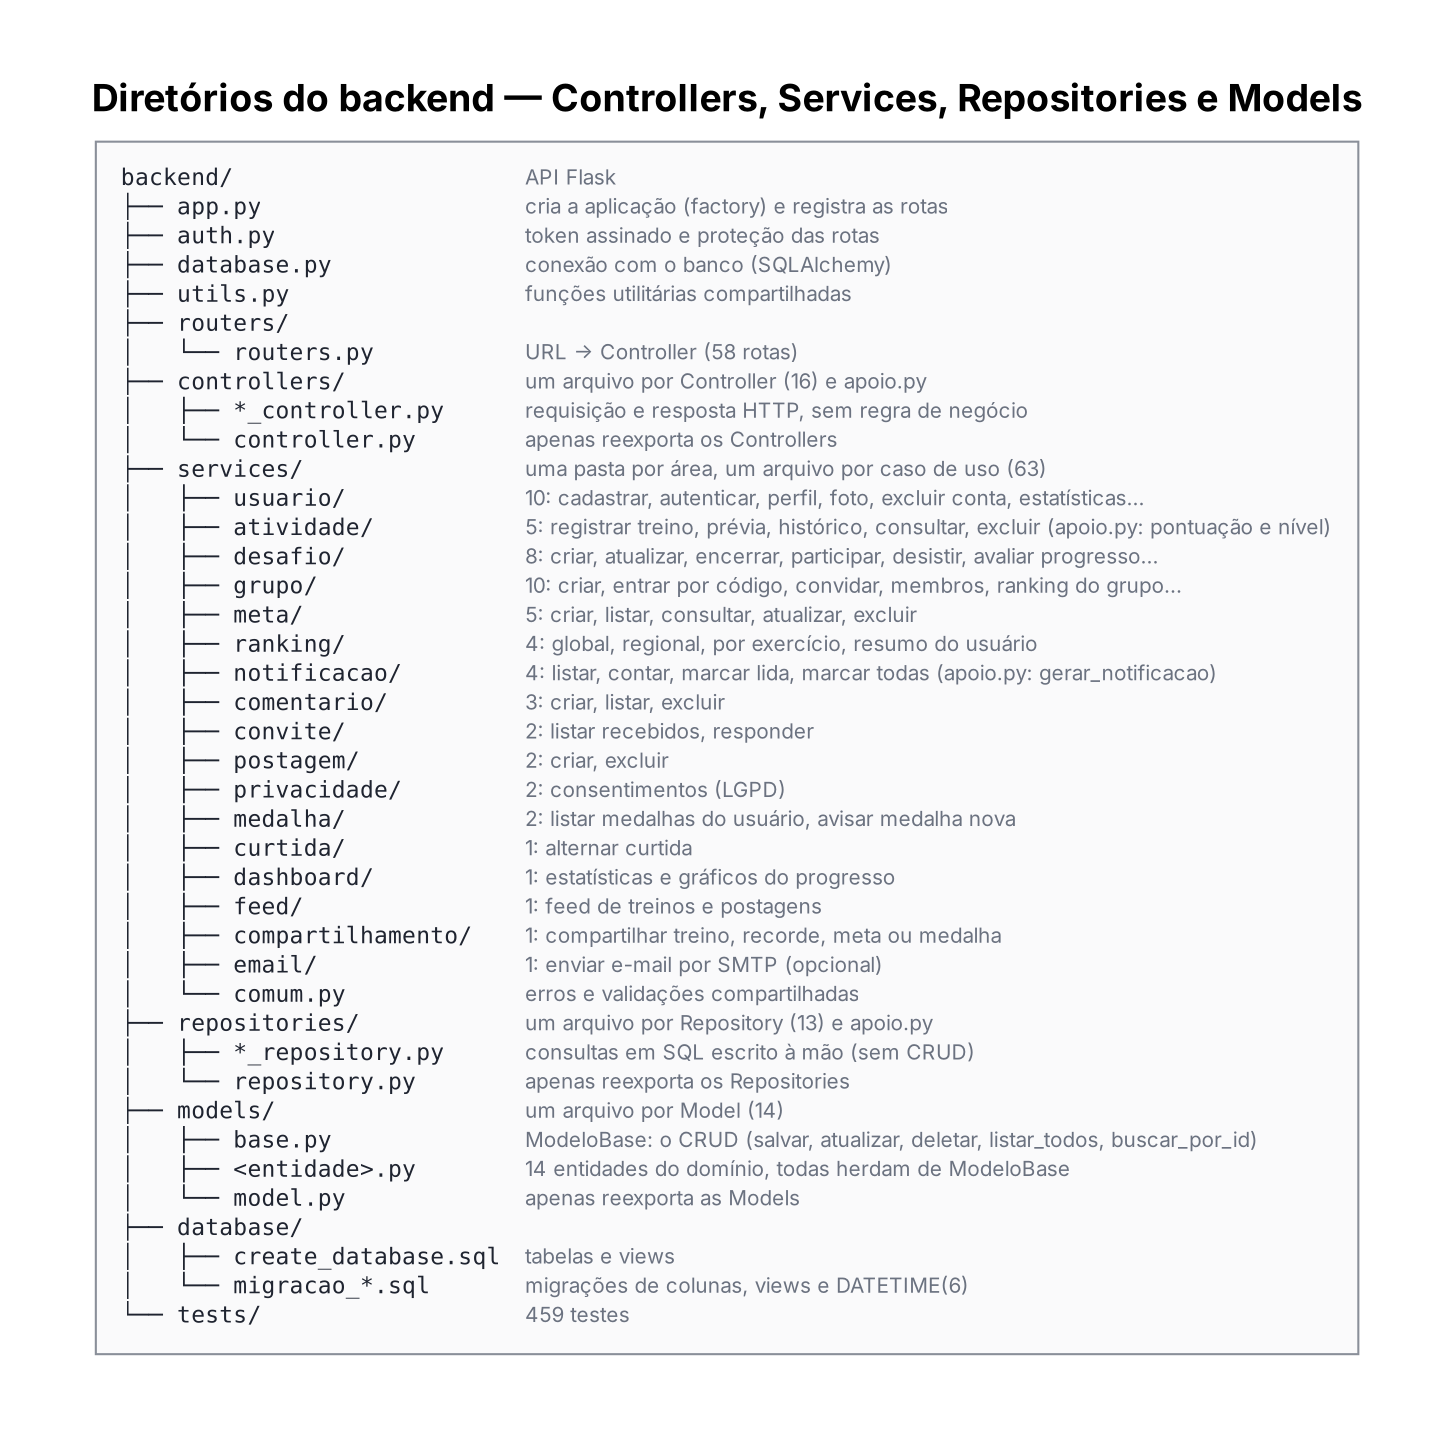
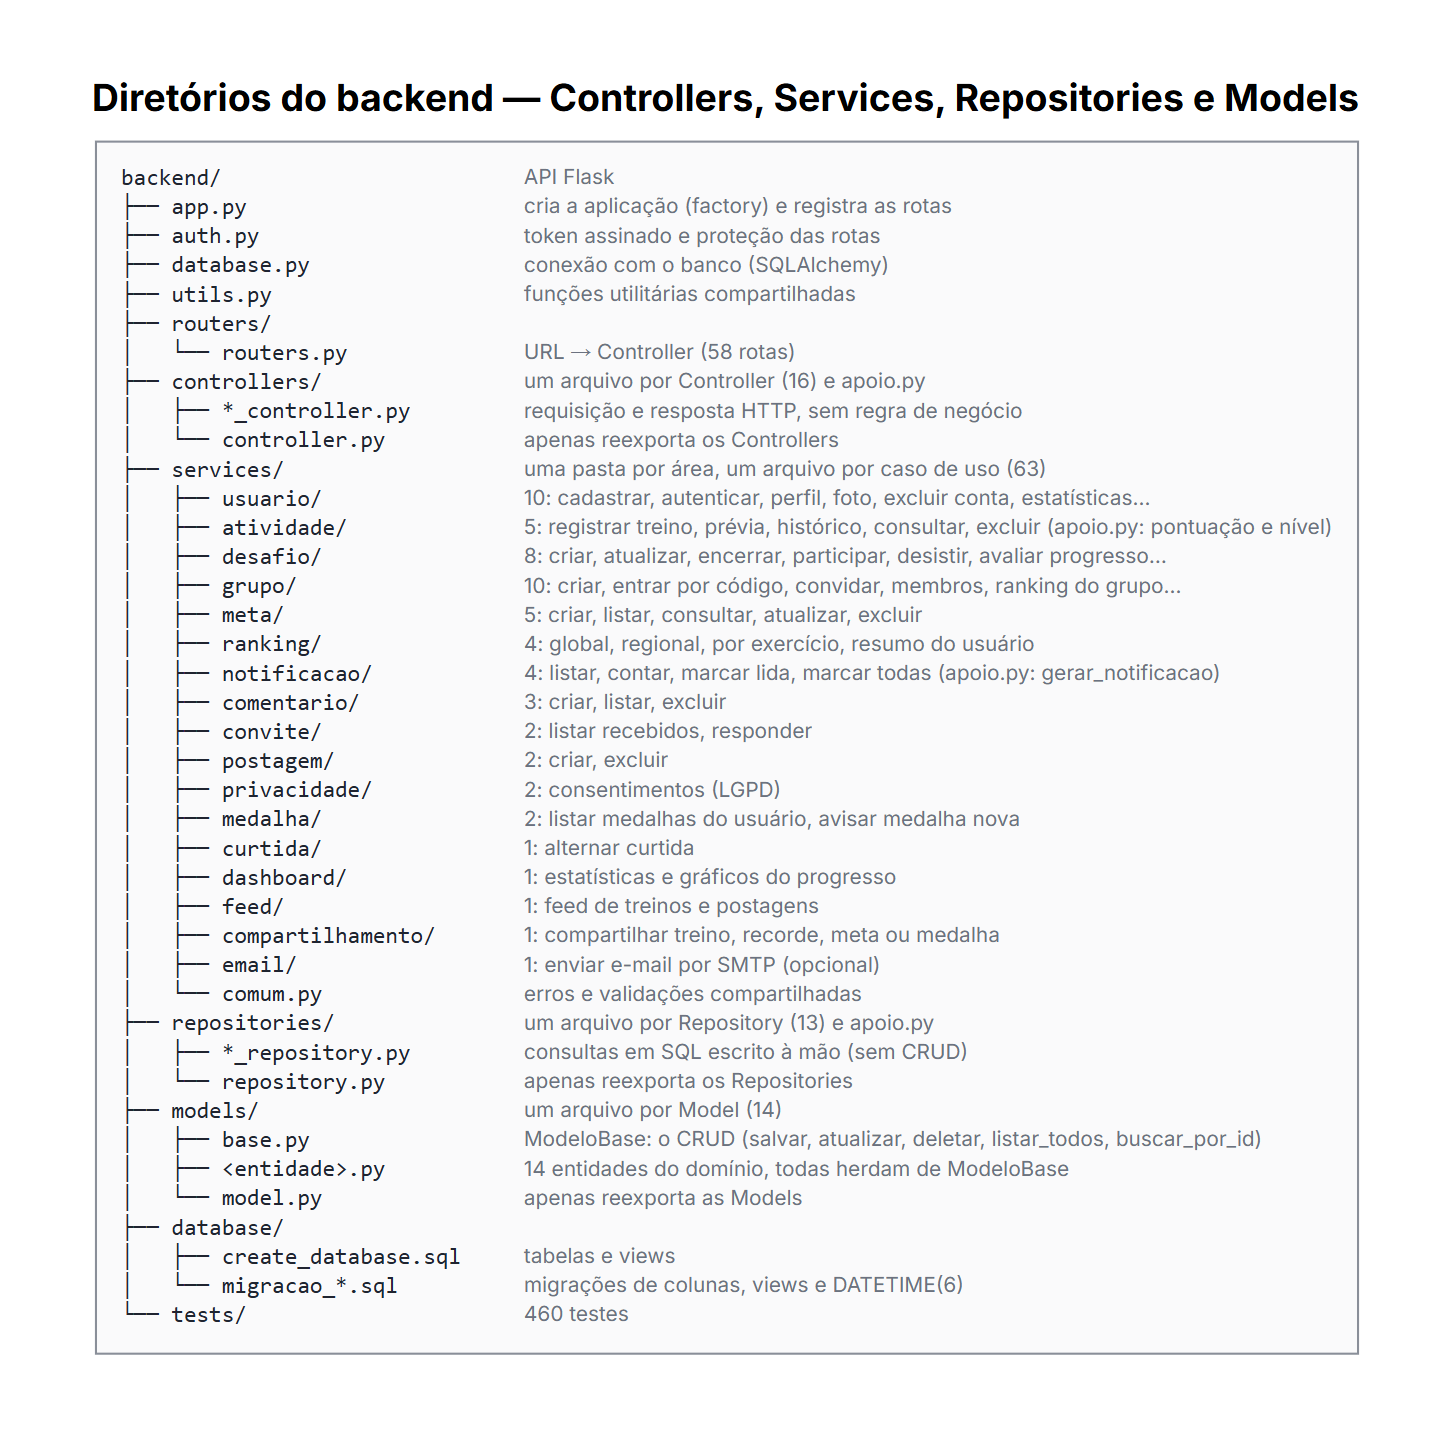
Atualiza contagem de testes para 460
README e as figuras de estrutura e arquitetura passam de 459 para 460
testes. As figuras PNG foram renderizadas de novo a partir do SVG.

Changed region(s): [[0.3404, 0.1225, 0.8666, 0.9186], [0.0928, 0.1225, 0.3404, 0.9492], [0.0619, 0.0612, 0.9285, 0.0919]]

diff --git a/README.md b/README.md
@@ -161,7 +161,7 @@ Hoje (conferido direto na árvore de arquivos): 58 rotas registradas em
 classes `Repository` em `repositories/` (uma por arquivo), 14 classes `Model`
 em `models/` (uma por arquivo, todas herdando de `ModeloBase`), 10 arquivos
 `apoio.py` em `services/` (um por área que precisa de lógica compartilhada),
-mais um `apoio.py` em `controllers/` e um em `repositories/`, e 459 testes.
+mais um `apoio.py` em `controllers/` e um em `repositories/`, e 460 testes.
 
 | Caso de uso | Controller | Service | Repository |
 |---|---|---|---|
@@ -442,7 +442,7 @@ cd backend
 python -m unittest discover -s tests -t .
 ```
 
-459 testes atualmente, cobrindo autenticação/LGPD (incluindo as fronteiras de
+460 testes atualmente, cobrindo autenticação/LGPD (incluindo as fronteiras de
 13 e 18 anos), robustez (uploads, limite de login, concorrência),
 grupos/convites, metas, compartilhamento, busca restrita (nome, cidade,
 menores de idade, perfil revogado), rankings, dashboard (estado vazio,
